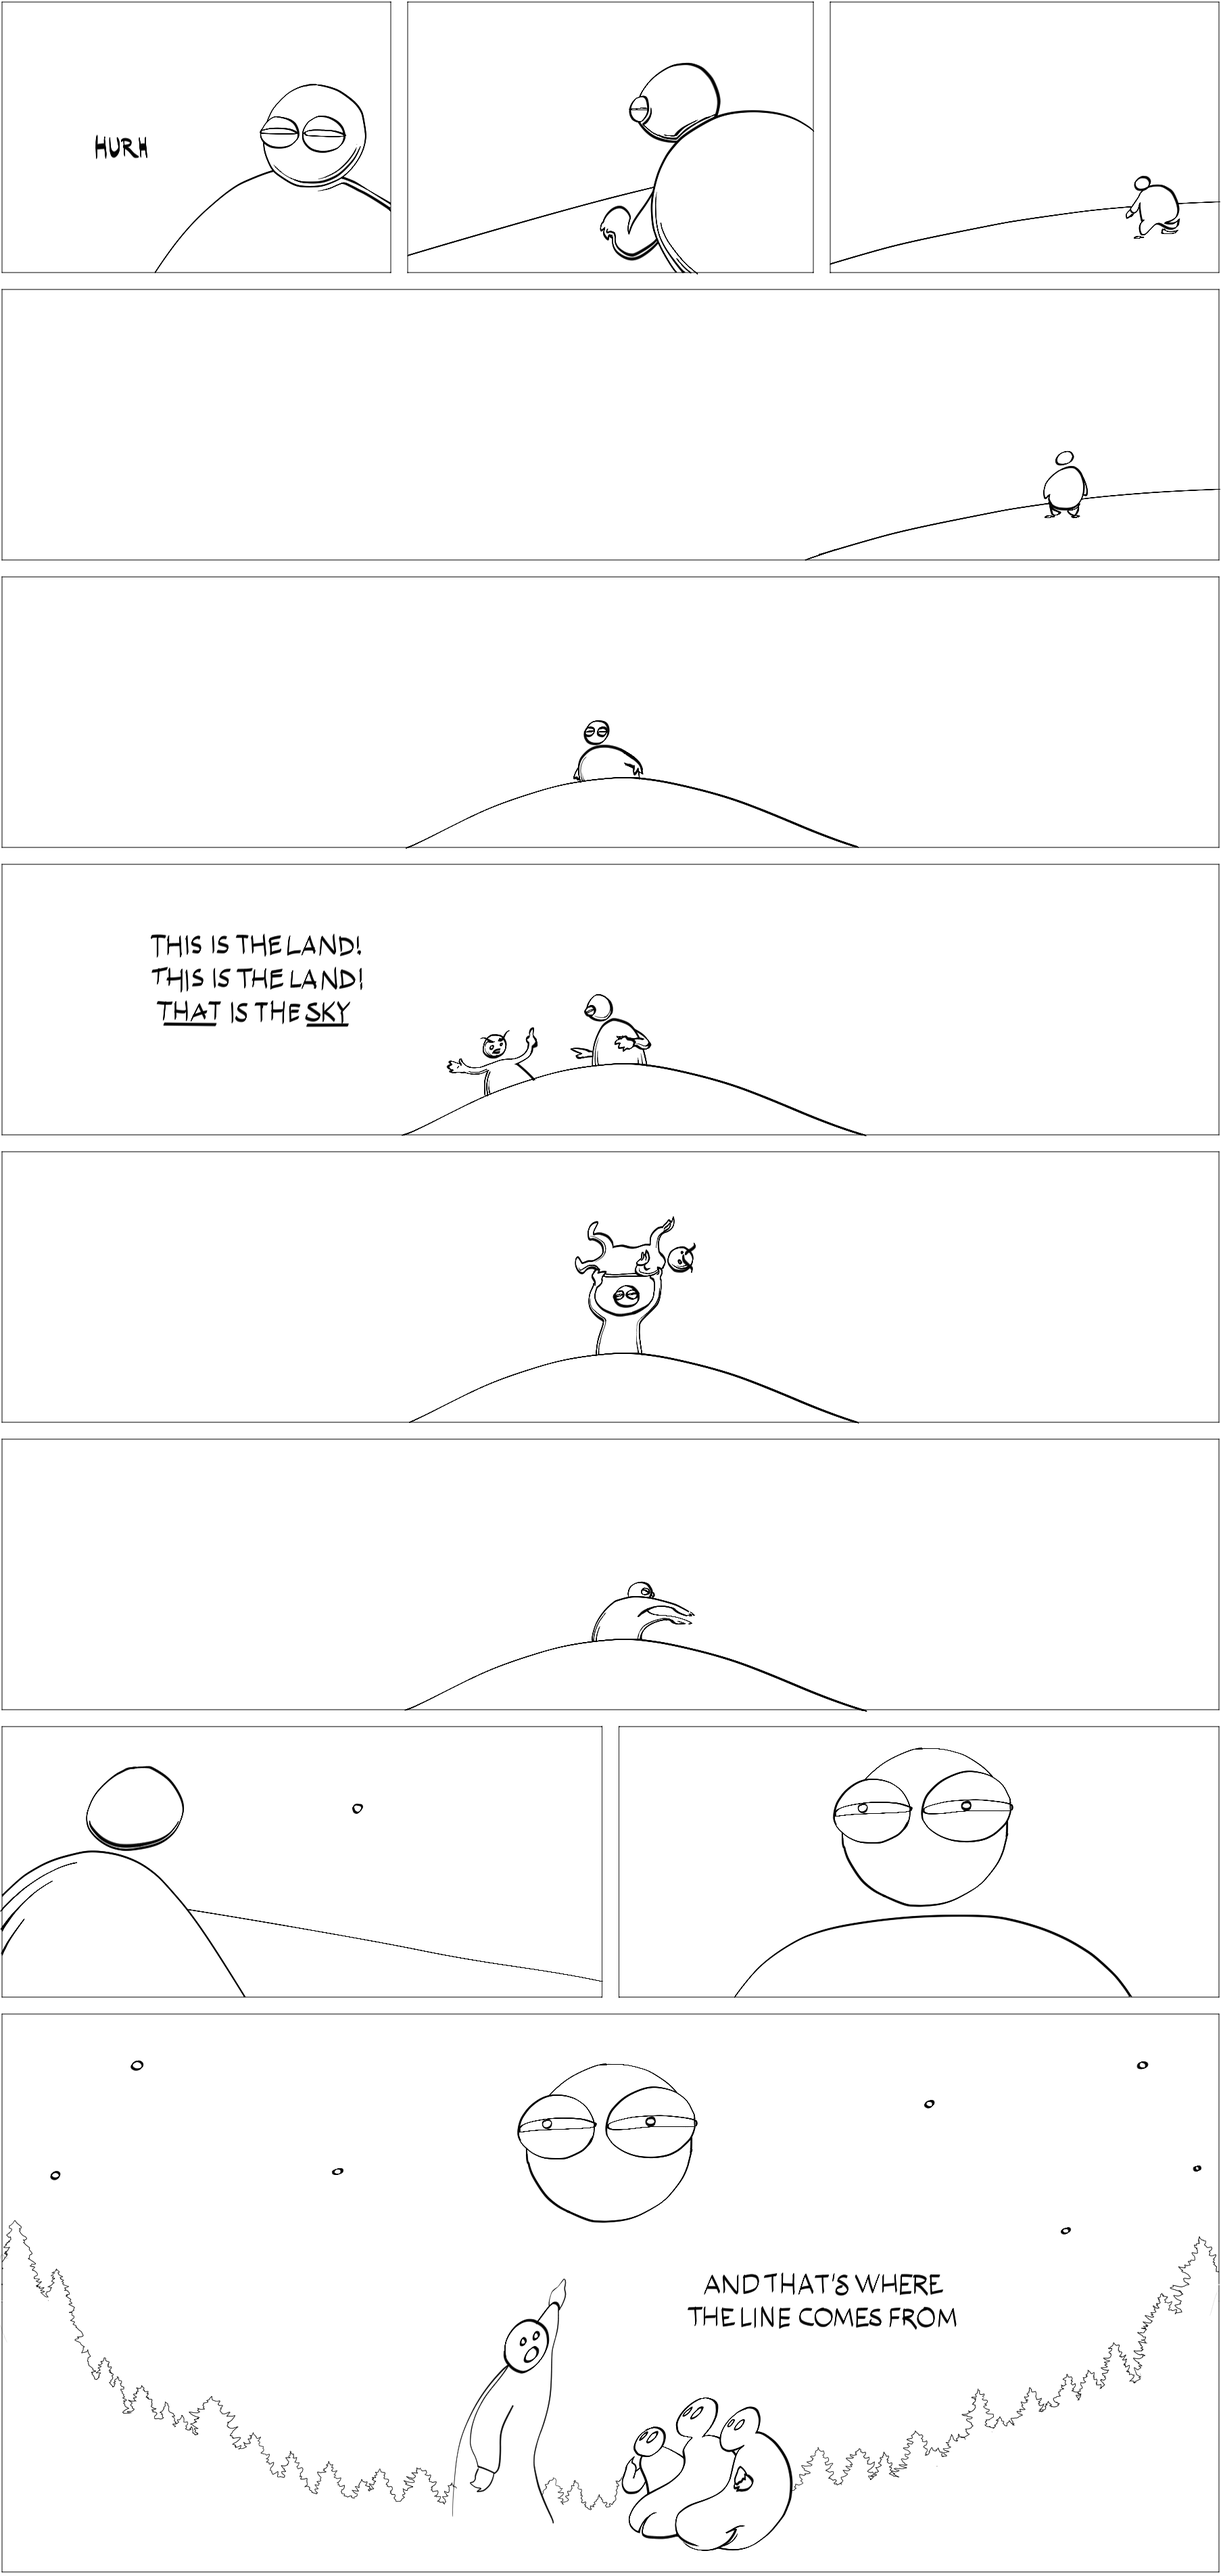
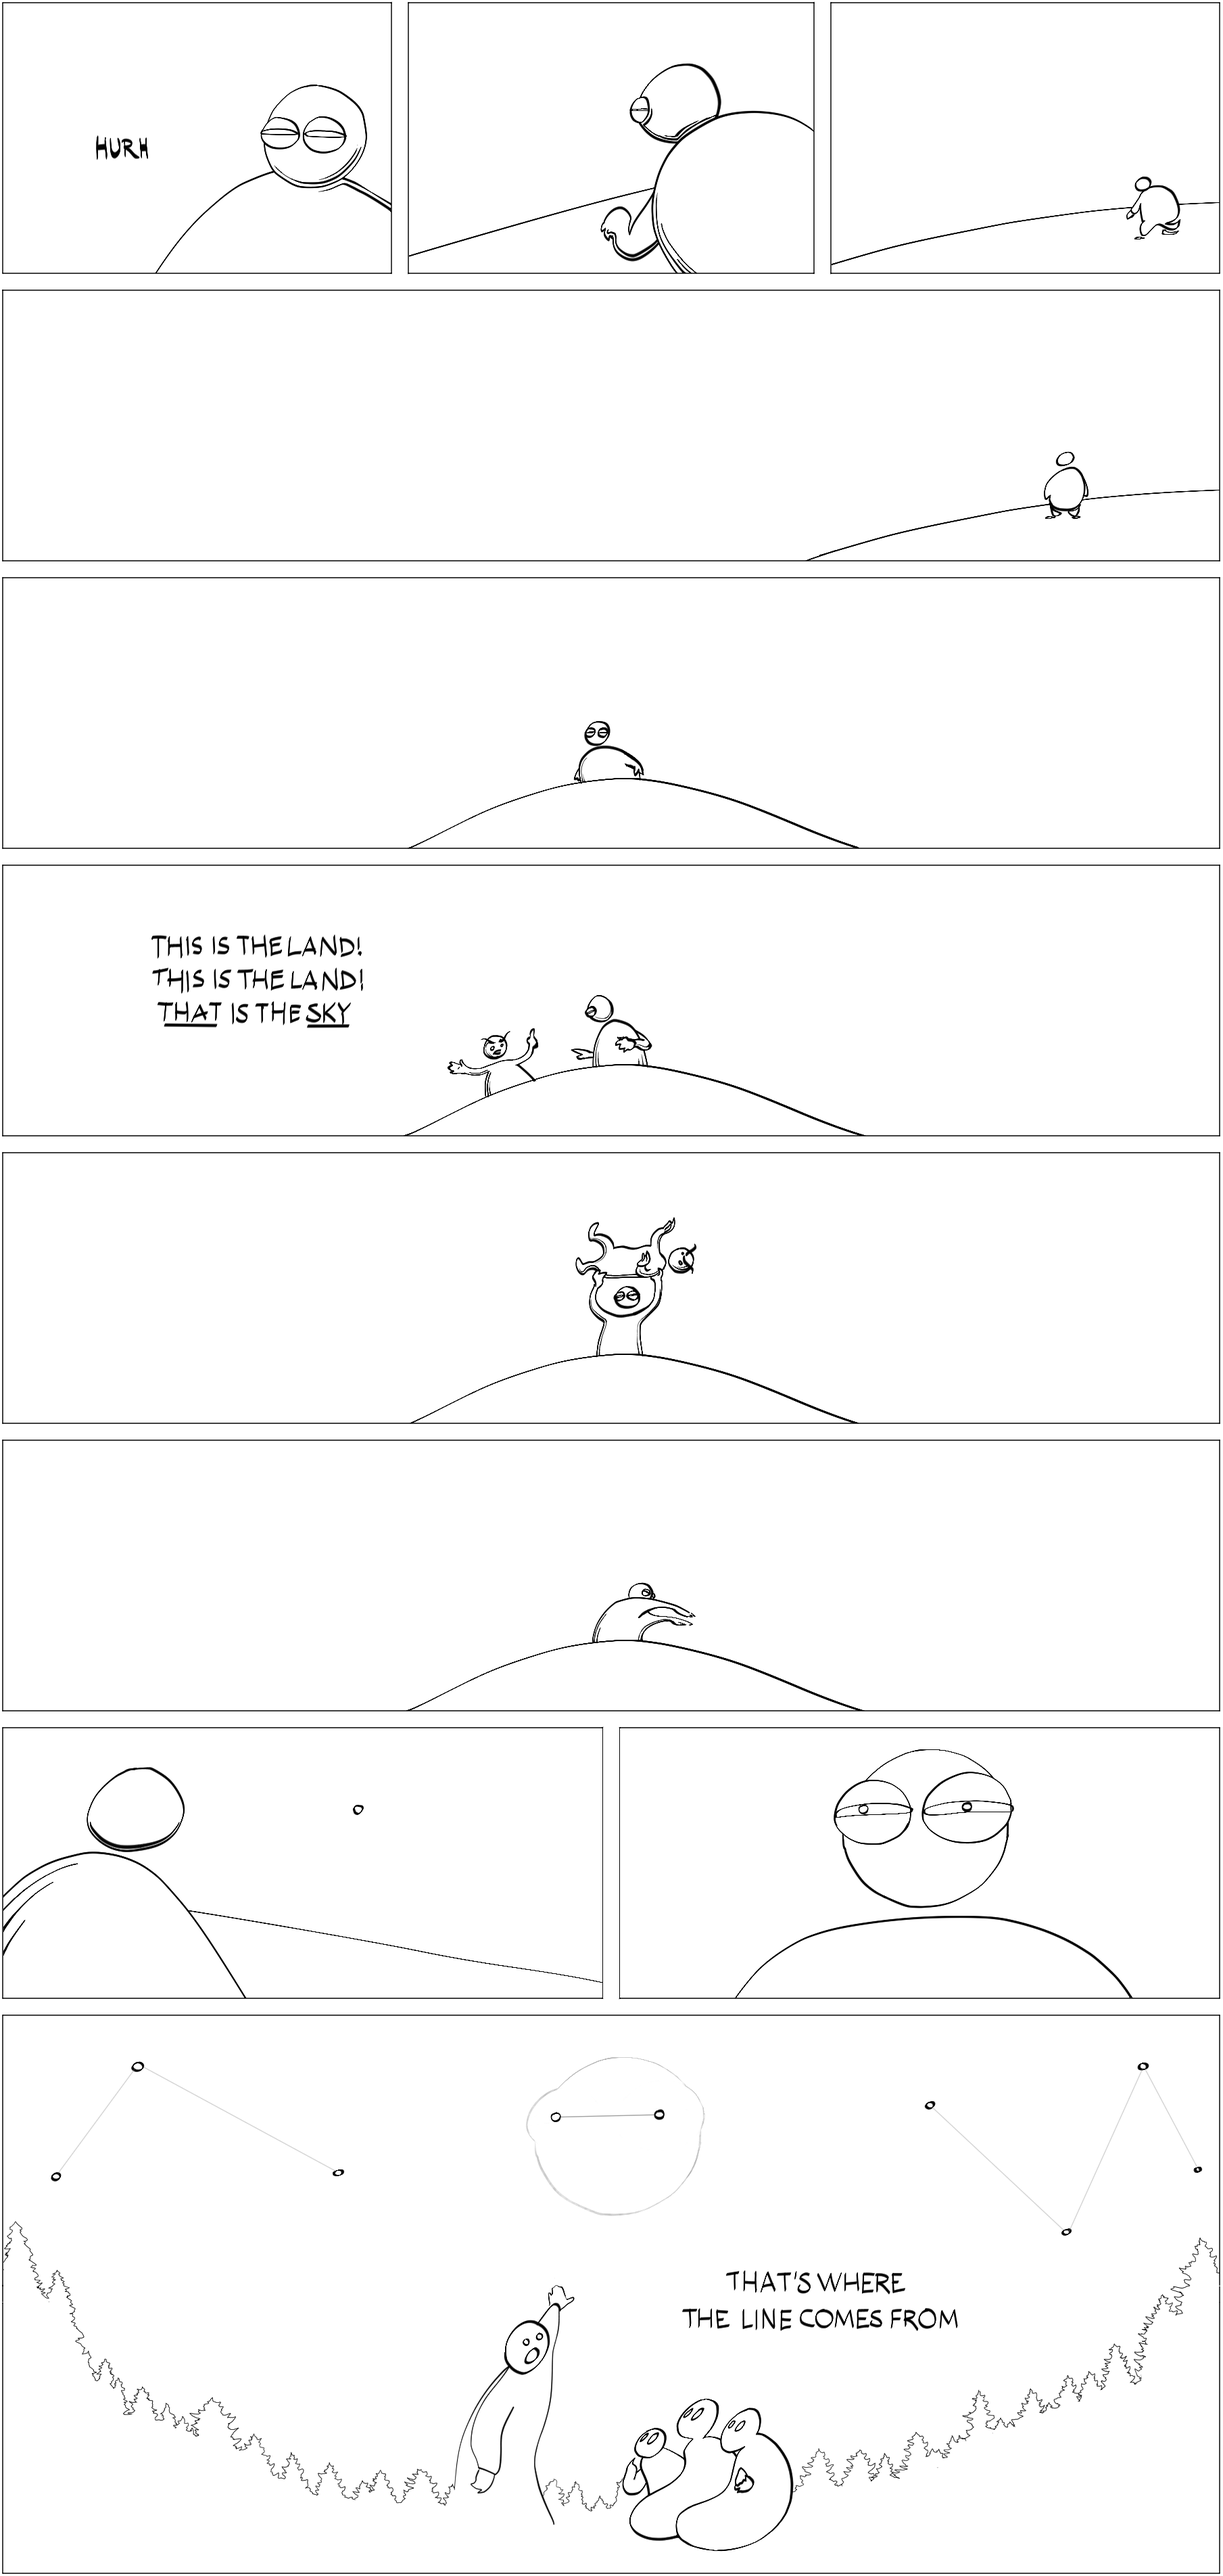
star eyes

diff --git a/exported.html b/exported.html
@@ -1,2 +1,2 @@
 <!doctype html>
-<html><body><div><style>@font-face {font-family: Inconsolata;src: url(resources/fonts/Inconsolata.otf) format("opentype");}</style></div><div style="font-family: sans-serif; width: 100%; margin-top: 1em; margin-bottom: 1em"><div style="text-align:center; max-width: 1000px; width: 100%;margin-right: auto;margin-left: auto;"><h1 style="margin-bottom: 0em;">Basalt Comics</h1><h3 style="margin-top: 0.5em;">Tims Gardner</h3><div style="border-top: 1px solid black; margin-top:1em; margin-bottom:1em;; max-width: 1000px; width: 100%"><p style="text-align:center;">The Line</p><div><div><a href="resources/star_eyes.png"><img alt="star eyes" src="resources/star_eyes.png" style="width: 100%;" /></a></div></div></div></div></div></body></html>
+<html><body><div><style>@font-face {font-family: Inconsolata;src: url(resources/fonts/Inconsolata.otf) format("opentype");}</style></div><div style="font-family: sans-serif;width: 100%;margin-top: 1em;margin-bottom: 1em;"><div style="text-align:center;max-width: 1000px;width: 100%;margin-right: auto;margin-left: auto;"><h1 style="margin-bottom: 0em;">Basalt Comics</h1><h3 style="margin-top: 0.5em;">Tims Gardner</h3><div style="border-top: 1px solid black; margin-top:1em; margin-bottom:1em;"><p style="text-align:center;">The Line</p><div><div><a href="resources/star_eyes.png"><img alt="star eyes" src="resources/star_eyes.png" style="width: 100%;" /></a></div></div></div></div></div></body></html>

diff --git a/comics/star-eyes.html b/comics/star-eyes.html
@@ -1,0 +1,2 @@
+<!doctype html>
+<html><body><div><style>@font-face {font-family: Inconsolata;src: url(resources/fonts/Inconsolata.otf) format("opentype");}</style></div><div style="font-family: sans-serif;width: 100%;margin-top: 1em;margin-bottom: 1em;"><div style="text-align:center;max-width: 1000px;width: 100%;margin-right: auto;margin-left: auto;"><h1 style="margin-bottom: 0em;">Basalt Comics</h1><h3 style="margin-top: 0.5em;">Tims Gardner</h3><div style="border-top: 1px solid black; margin-top:1em; margin-bottom:1em;"><p style="text-align:center;">The Line</p><div><div><a href="../resources/star_eyes.png"><img alt="star eyes" src="../resources/star_eyes.png" style="width: 100%;" /></a></div></div></div></div></div></body></html>

diff --git a/exported_4.html b/exported_4.html
@@ -1,0 +1,2 @@
+<!doctype html>
+<html><body><div><style>@font-face {font-family: Inconsolata;src: url(resources/fonts/Inconsolata.otf) format("opentype");}</style></div><div style="font-family: sans-serif;width: 100%;margin-top: 1em;margin-bottom: 1em;"><div style="text-align:center;max-width: 1000px;width: 100%;margin-right: auto;margin-left: auto;"><h1 style="margin-bottom: 0em;">Basalt Comics</h1><h3 style="margin-top: 0.5em;">Tims Gardner</h3><div style="border-top: 1px solid black; margin-top:1em; margin-bottom:1em;"><p style="text-align:center;">The Line</p><div><div><a href="resources/star_eyes_4.png"><img alt="star eyes" src="resources/star_eyes_4.png" style="width: 100%;" /></a></div></div></div></div></div></body></html>

diff --git a/other-exported.html b/other-exported.html
@@ -1,0 +1,2 @@
+<!doctype html>
+<html><body><div><style>@font-face {font-family: Inconsolata;src: url(resources/fonts/Inconsolata.otf) format("opentype");}</style></div><div style="font-family: sans-serif;width: 100%;margin-top: 1em;margin-bottom: 1em;"><div style="text-align:center;max-width: 1000px;width: 100%;margin-right: auto;margin-left: auto;"><h1 style="margin-bottom: 0em;">Basalt Comics</h1><h3 style="margin-top: 0.5em;">Tims Gardner</h3><div style="border-top: 1px solid black; margin-top:1em; margin-bottom:1em;"><p style="text-align:center;">The Line</p><div><div><a href="resources/star_eyes_2.png"><img alt="star eyes" src="resources/star_eyes_2.png" style="width: 100%;" /></a></div></div></div></div></div></body></html>

diff --git a/other-other-exported.html b/other-other-exported.html
@@ -1,0 +1,2 @@
+<!doctype html>
+<html><body><div><style>@font-face {font-family: Inconsolata;src: url(resources/fonts/Inconsolata.otf) format("opentype");}</style></div><div style="font-family: sans-serif;width: 100%;margin-top: 1em;margin-bottom: 1em;"><div style="text-align:center;max-width: 1000px;width: 100%;margin-right: auto;margin-left: auto;"><h1 style="margin-bottom: 0em;">Basalt Comics</h1><h3 style="margin-top: 0.5em;">Tims Gardner</h3><div style="border-top: 1px solid black; margin-top:1em; margin-bottom:1em;"><p style="text-align:center;">The Line</p><div><div><a href="resources/star_eyes_3.png"><img alt="star eyes" src="resources/star_eyes_3.png" style="width: 100%;" /></a></div></div></div></div></div></body></html>

diff --git a/star-eyes.html b/star-eyes.html
@@ -1,0 +1,2 @@
+<!doctype html>
+<html><body><div><style>@font-face {font-family: Inconsolata;src: url(resources/fonts/Inconsolata.otf) format("opentype");}</style></div><div style="font-family: sans-serif;width: 100%;margin-top: 1em;margin-bottom: 1em;"><div style="text-align:center;max-width: 1000px;width: 100%;margin-right: auto;margin-left: auto;"><h1 style="margin-bottom: 0em;">Basalt Comics</h1><h3 style="margin-top: 0.5em;">Tims Gardner</h3><div style="border-top: 1px solid black; margin-top:1em; margin-bottom:1em;"><p style="text-align:center;">The Line</p><div><div><a href="resources/star_eyes_4.png"><img alt="star eyes" src="resources/star_eyes_4.png" style="width: 100%;" /></a></div></div></div></div></div></body></html>
